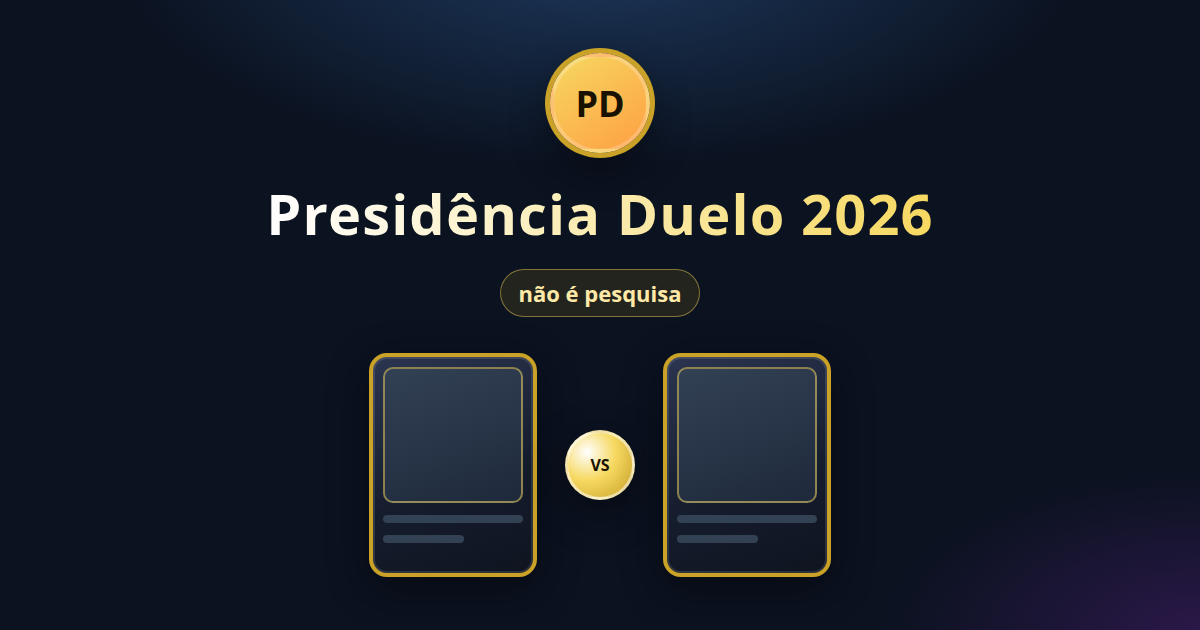
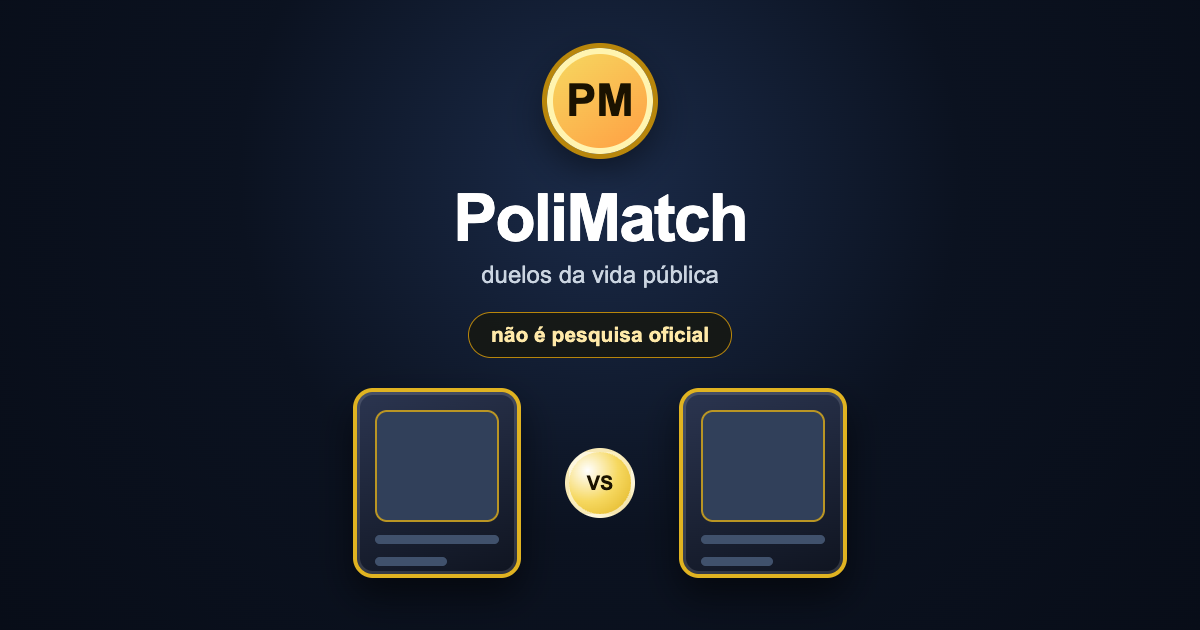
feat: unify public brand as PoliMatch

Changed region(s): [[0.2158, 0.0603, 0.8017, 0.9349], [0.8633, 0.8444, 1.0, 1.0]]

diff --git a/front/src/game.js b/front/src/game.js
@@ -181,8 +181,8 @@ function renderShell(root, { requireApi = false } = {}) {
     <div class="app">
       <header>
         <div class="logo">
-          <div class="logo-badge" aria-hidden="true">PD</div>
-          <h1>Presidência Duelo</h1>
+          <div class="logo-badge" aria-hidden="true">PM</div>
+          <h1>PoliMatch</h1>
         </div>
         <p class="subtitle">Escolha um card. Próximo duelo aleatório. Ranking Elo no seu aparelho.</p>
         <p class="api-status pending" id="api-status" role="status" aria-live="polite">Conectando à API…</p>
@@ -398,7 +398,7 @@ function renderShell(root, { requireApi = false } = {}) {
       <div class="podium-overlay" id="podium-overlay" hidden>
         <div class="podium-backdrop" id="podium-backdrop"></div>
         <div class="podium-dialog" role="dialog" aria-modal="true" aria-labelledby="podium-title">
-          <p class="podium-kicker">Presidência Duelo 2026</p>
+          <p class="podium-kicker">PoliMatch</p>
           <h2 class="podium-title" id="podium-title">Seu pódio</h2>
           <p class="podium-disclaimer">Não é pesquisa oficial</p>
           <ol class="podium-stand" id="podium-stand"></ol>
@@ -432,8 +432,8 @@ function renderConnectionRequired(root) {
   root.innerHTML = `
     <main class="app connection-required">
       <div class="logo">
-        <div class="logo-badge" aria-hidden="true">PD</div>
-        <h1>Presidência Duelo</h1>
+        <div class="logo-badge" aria-hidden="true">PM</div>
+        <h1>PoliMatch</h1>
       </div>
       <section class="connection-required-card" role="alert">
         <h2>Conexão necessária</h2>
@@ -1164,7 +1164,7 @@ export async function initGame({ requireApi = false } = {}) {
     const text = formatTournamentShareText(champion);
     try {
       if (typeof navigator.share === "function") {
-        await navigator.share({ title: "Meu presidente — Presidência Duelo 2026", text });
+        await navigator.share({ title: "Meu vencedor — PoliMatch", text });
         return;
       }
       await navigator.clipboard.writeText(text);

diff --git a/app/index.html b/app/index.html
@@ -6,14 +6,14 @@
     <meta name="theme-color" content="#0b1220" />
     <meta name="mobile-web-app-capable" content="yes" />
     <meta name="apple-mobile-web-app-capable" content="yes" />
-    <meta name="apple-mobile-web-app-title" content="Presidência Duelo" />
+    <meta name="apple-mobile-web-app-title" content="PoliMatch" />
     <meta
       name="description"
-      content="Presidência Duelo — PWA do jogo casual com pessoas da vida pública brasileira. Não é pesquisa oficial."
+      content="PoliMatch — PWA de duelos casuais com pessoas da vida pública brasileira. Não é pesquisa oficial."
     />
     <meta property="og:type" content="website" />
     <meta property="og:locale" content="pt_BR" />
-    <meta property="og:title" content="Presidência Duelo 2026" />
+    <meta property="og:title" content="PoliMatch" />
     <meta
       property="og:description"
       content="Jogo casual com pessoas da vida pública brasileira. Não é pesquisa oficial."
@@ -23,7 +23,7 @@
     <meta property="og:image:width" content="1200" />
     <meta property="og:image:height" content="630" />
     <meta name="twitter:card" content="summary_large_image" />
-    <meta name="twitter:title" content="Presidência Duelo 2026" />
+    <meta name="twitter:title" content="PoliMatch" />
     <meta
       name="twitter:description"
       content="Jogo casual com pessoas da vida pública brasileira. Não é pesquisa oficial."
@@ -32,7 +32,7 @@
     <link rel="manifest" href="./manifest.webmanifest" />
     <link rel="icon" href="./icons/icon.svg" type="image/svg+xml" />
     <link rel="apple-touch-icon" href="./icons/icon-192.png" />
-    <title>Presidência Duelo 2026</title>
+    <title>PoliMatch</title>
   </head>
   <body>
     <div id="app"></div>

diff --git a/front/src/brand.test.js b/front/src/brand.test.js
@@ -1,0 +1,37 @@
+import assert from "node:assert/strict";
+import { readFileSync } from "node:fs";
+import { dirname, join } from "node:path";
+import { test } from "node:test";
+import { fileURLToPath } from "node:url";
+
+const root = join(dirname(fileURLToPath(import.meta.url)), "..");
+const publicFiles = [
+  "index.html",
+  "src/game.js",
+  "src/podium.js",
+  "src/tournament.js",
+  "../app/index.html",
+  "../app/public/manifest.webmanifest",
+];
+
+test("public surfaces consistently use the PoliMatch brand", () => {
+  for (const relative of publicFiles) {
+    const source = readFileSync(join(root, relative), "utf8");
+    assert.match(source, /PoliMatch/, relative);
+    assert.doesNotMatch(source, /Presidência Duelo/, relative);
+  }
+});
+
+test("PWA manifest and temporary icon expose the new brand", () => {
+  const manifest = JSON.parse(readFileSync(join(root, "../app/public/manifest.webmanifest"), "utf8"));
+  assert.equal(manifest.name, "PoliMatch");
+  assert.equal(manifest.short_name, "PoliMatch");
+  assert.match(readFileSync(join(root, "public/icons/icon.svg"), "utf8"), />PM<\/text>/);
+});
+
+test("share texts preserve the entertainment disclaimer", () => {
+  const podium = readFileSync(join(root, "src/podium.js"), "utf8");
+  const tournament = readFileSync(join(root, "src/tournament.js"), "utf8");
+  assert.match(podium, /Não é pesquisa oficial/);
+  assert.match(tournament, /Não é pesquisa oficial/);
+});

diff --git a/front/index.html b/front/index.html
@@ -7,11 +7,11 @@
     <link rel="icon" href="/icons/icon.svg" type="image/svg+xml" />
     <meta
       name="description"
-      content="Presidência Duelo — jogo casual com pessoas da vida pública brasileira. Não é pesquisa oficial."
+      content="PoliMatch — duelos casuais com pessoas da vida pública brasileira. Não é pesquisa oficial."
     />
     <meta property="og:type" content="website" />
     <meta property="og:locale" content="pt_BR" />
-    <meta property="og:title" content="Presidência Duelo 2026" />
+    <meta property="og:title" content="PoliMatch" />
     <meta
       property="og:description"
       content="Jogo casual com pessoas da vida pública brasileira. Não é pesquisa oficial."
@@ -21,13 +21,13 @@
     <meta property="og:image:width" content="1200" />
     <meta property="og:image:height" content="630" />
     <meta name="twitter:card" content="summary_large_image" />
-    <meta name="twitter:title" content="Presidência Duelo 2026" />
+    <meta name="twitter:title" content="PoliMatch" />
     <meta
       name="twitter:description"
       content="Jogo casual com pessoas da vida pública brasileira. Não é pesquisa oficial."
     />
     <meta name="twitter:image" content="/og-cover.png" />
-    <title>Presidência Duelo 2026</title>
+    <title>PoliMatch</title>
   </head>
   <body>
     <div id="app"></div>

diff --git a/front/src/podium.test.js b/front/src/podium.test.js
@@ -82,7 +82,7 @@ test("formatPodiumShareText is the ranking-text fallback for WhatsApp", () => {
   assert.equal(
     text,
     [
-      "Meu pódio — Presidência Duelo 2026",
+      "Meu pódio — PoliMatch",
       "Não é pesquisa oficial",
       "",
       "1º Luiz Inácio Lula da Silva — Elo 1180",
@@ -91,9 +91,9 @@ test("formatPodiumShareText is the ranking-text fallback for WhatsApp", () => {
     ].join("\n"),
   );
   assert.match(text, /não é pesquisa/i);
-  assert.equal(GAME_NAME, "Presidência Duelo 2026");
+  assert.equal(GAME_NAME, "PoliMatch");
   assert.equal(PODIUM_DISCLAIMER, "Não é pesquisa oficial");
-  assert.equal(SHARE_TITLE, "Meu pódio — Presidência Duelo 2026");
+  assert.equal(SHARE_TITLE, "Meu pódio — PoliMatch");
 });
 
 test("formatPodiumShareText handles an empty podium", () => {
@@ -326,7 +326,7 @@ test("paintPodiumScene writes game name, disclaimer, and top names", () => {
     images: [null, null],
   });
   const joined = texts.join("\n");
-  assert.match(joined, /Presidência Duelo 2026/);
+  assert.match(joined, /PoliMatch/);
   assert.match(joined, /Seu pódio/);
   assert.match(joined, /não é pesquisa/i);
   assert.match(joined, /Lula/);

diff --git a/back/src/server.js b/back/src/server.js
@@ -27,7 +27,7 @@ app.get("/api/health", async (_req, res) => {
     await store.health();
     res.json({
       ok: true,
-      service: "presidencia-duelo-api",
+      service: "polimatch-api",
       database: "postgresql",
       candidates: CANDIDATES.length,
     });
@@ -115,7 +115,7 @@ const migration = await store.init();
 console.log("PostgreSQL inicializado", migration);
 
 const server = app.listen(PORT, "0.0.0.0", () => {
-  console.log(`Presidência Duelo API em http://localhost:${PORT}`);
+  console.log(`PoliMatch API em http://localhost:${PORT}`);
 });
 
 async function shutdown(signal) {

diff --git a/front/src/podium.js b/front/src/podium.js
@@ -10,12 +10,12 @@
 
 import { sortCandidatesByRank } from "./ranking.js";
 
-export const GAME_NAME = "Presidência Duelo 2026";
+export const GAME_NAME = "PoliMatch";
 export const PODIUM_DISCLAIMER = "Não é pesquisa oficial";
-export const SHARE_TITLE = "Meu pódio — Presidência Duelo 2026";
+export const SHARE_TITLE = "Meu pódio — PoliMatch";
 export const PODIUM_PNG_WIDTH = 1080;
 export const PODIUM_PNG_HEIGHT = 1350;
-export const PODIUM_FILE_NAME = "podio-presidencia-duelo.png";
+export const PODIUM_FILE_NAME = "podio-polimatch.png";
 
 const PLACE_LABELS = ["1º", "2º", "3º"];
 

diff --git a/front/src/tournament.js b/front/src/tournament.js
@@ -75,7 +75,7 @@ export function completedTournamentDuels(tournament) {
 
 export function formatTournamentShareText(candidate) {
   const affiliation = candidate.party ? ` (${candidate.party})` : "";
-  return `Meu vencedor é ${candidate.name}${affiliation} — Presidência Duelo 2026\nNão é pesquisa oficial.`;
+  return `Meu vencedor é ${candidate.name}${affiliation} — PoliMatch\nNão é pesquisa oficial.`;
 }
 
 function sameIds(actual, expected) {

diff --git a/README.md b/README.md
@@ -1,6 +1,6 @@
-# Presidência Duelo 2026
+# PoliMatch
 
-Monorepo do jogo web casual estilo **Facemash**: duas pessoas da vida pública brasileira lado a lado; você escolhe uma; surge o próximo par aleatório; o ranking Elo fica no `localStorage` e, se a API estiver no ar, também num agregado no servidor.
+Monorepo do **PoliMatch**, jogo web casual com duas pessoas da vida pública brasileira lado a lado: você escolhe uma, surge o próximo par aleatório e o ranking Elo é preservado no navegador e no servidor.
 
 Além do duelo contínuo, a aba **Torneio** sorteia 12 pessoas do catálogo para um mata-mata: oito disputam a primeira rodada e quatro avançam direto, seguindo por quartas, semifinais e final. São 11 escolhas até o resultado, que pode ser compartilhado. O torneio é salvo separadamente e não altera o Elo local nem o agregado da API.
 
